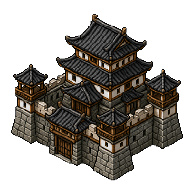
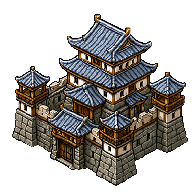
feat: update SiteIcon component to use eastern assets for all site types

diff --git a/src/components/SiteIcon.tsx b/src/components/SiteIcon.tsx
@@ -1,17 +1,16 @@
 import type { SiteOwnerId, SiteType } from '../game/types'
-import farmIcon from '../assets/sites/farm.png'
-import mineIcon from '../assets/sites/mine.png'
+import easternFarmIcon from '../assets/sites/farm-eastern.png'
+import easternMineIcon from '../assets/sites/mine-eastern.png'
 import easternStrongholdIcon from '../assets/sites/stronghold-eastern.png'
-import strongholdIcon from '../assets/sites/stronghold.png'
-import villageIcon from '../assets/sites/village.png'
+import easternVillageIcon from '../assets/sites/village-eastern.png'
 
 const SITE_ICONS: Record<SiteType, string> = {
-  stronghold: strongholdIcon,
-  village: villageIcon,
-  farm: farmIcon,
-  mine: mineIcon,
+  stronghold: easternStrongholdIcon,
+  village: easternVillageIcon,
+  farm: easternFarmIcon,
+  mine: easternMineIcon,
   // Temporary placeholder for the reserved city type.
-  city: villageIcon,
+  city: easternVillageIcon,
 }
 
 type SiteIconProps = {
@@ -20,22 +19,15 @@ type SiteIconProps = {
   className?: string
 }
 
-function isBlueFaction(ownerId: SiteOwnerId | undefined): boolean {
-  return ownerId === 'f1' || ownerId === 'player'
-}
-
-export function SiteIcon({ kind, ownerId, className }: SiteIconProps) {
-  const usesEasternStronghold = kind === 'stronghold' && isBlueFaction(ownerId)
-  const icon = usesEasternStronghold ? easternStrongholdIcon : SITE_ICONS[kind]
-
+export function SiteIcon({ kind, className }: SiteIconProps) {
   return (
     <img
-      src={icon}
+      src={SITE_ICONS[kind]}
       alt=""
       className={className}
       aria-hidden="true"
       data-site-icon={kind}
-      data-site-icon-variant={usesEasternStronghold ? 'eastern' : undefined}
+      data-site-icon-variant="eastern"
     />
   )
 }

diff --git a/src/components/SiteIcon.test.tsx b/src/components/SiteIcon.test.tsx
@@ -3,12 +3,10 @@ import { describe, expect, it } from 'vitest'
 import { SiteIcon } from './SiteIcon'
 
 describe('SiteIcon', () => {
-  it.each(['f1', 'player'] as const)(
-    'uses the eastern stronghold for the blue %s faction',
-    (ownerId) => {
-      const { container } = render(
-        <SiteIcon kind="stronghold" ownerId={ownerId} />,
-      )
+  it.each(['stronghold', 'village', 'farm', 'mine', 'city'] as const)(
+    'uses the eastern asset for %s sites',
+    (kind) => {
+      const { container } = render(<SiteIcon kind={kind} ownerId="f2" />)
 
       expect(container.querySelector('img')).toHaveAttribute(
         'data-site-icon-variant',
@@ -16,12 +14,4 @@ describe('SiteIcon', () => {
       )
     },
   )
-
-  it('keeps the default stronghold for other factions', () => {
-    const { container } = render(<SiteIcon kind="stronghold" ownerId="f2" />)
-
-    expect(container.querySelector('img')).not.toHaveAttribute(
-      'data-site-icon-variant',
-    )
-  })
 })
